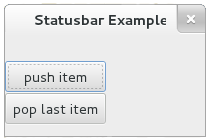
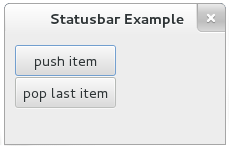
tutorials C: Statusbar sample/page/image

Changed region(s): [[0.0, 0.0, 1.0, 1.0], [0.1435, 0.087, 0.8038, 0.2029], [0.89, 0.087, 0.9474, 0.1739]]

diff --git a/platform-demos/C/samples/statusbar.c b/platform-demos/C/samples/statusbar.c
@@ -1,8 +1,5 @@
 #include <gtk/gtk.h>
 
-/*Global variable in which holds the statusbar*/
-GtkWidget *status_bar;
-
 
 
 /*Callback function in which pushes an item onto the statusbar*/
@@ -10,6 +7,10 @@ static void
 push_item(GtkWidget *widget,
           gpointer   data)
 {
+  GtkWidget *status_bar = data;
+  guint context_id = gtk_statusbar_get_context_id (GTK_STATUSBAR (status_bar), 
+                                                   "Statusbar example");
+
   /*Count is used to keep track of the amount of items 
   the user is pushing/popping*/
   static int count = 1;
@@ -20,7 +21,7 @@ push_item(GtkWidget *widget,
   into the 'hold_output' variable*/
   g_snprintf(hold_output, 20, "Item %d", count++);
   gtk_statusbar_push(GTK_STATUSBAR (status_bar), 
-                     GPOINTER_TO_INT (data), 
+                     context_id, 
                      hold_output);
 }
 
@@ -31,25 +32,32 @@ static void
 pop_item(GtkWidget *widget,
          gpointer   data )
 {
-  gtk_statusbar_pop(GTK_STATUSBAR (status_bar), GPOINTER_TO_INT (data));
+  GtkWidget *status_bar = data;
+  guint context_id = gtk_statusbar_get_context_id (GTK_STATUSBAR (status_bar), 
+                                                   "Statusbar example");
+
+  gtk_statusbar_pop(GTK_STATUSBAR (status_bar), context_id);
 }
+
+
 
 static void
 activate (GtkApplication *app,
           gpointer        user_data)
 {
-
     GtkWidget *window;
     GtkWidget *grid;
     GtkWidget *push_button;
     GtkWidget *pop_button;
+    GtkWidget *status_bar;
 
     guint context_id;
 
-    /*Create a window with a title and a default size**/
+    /*Create a window with a title, border width, and a default size**/
     window = gtk_application_window_new (app);
-    gtk_window_set_default_size(GTK_WINDOW (window), 200, 100);
-    gtk_window_set_title(GTK_WINDOW (window), "Statusbar Example");
+    gtk_window_set_default_size (GTK_WINDOW (window), 220, 100);
+    gtk_window_set_title (GTK_WINDOW (window), "Statusbar Example");
+    gtk_container_set_border_width (GTK_CONTAINER(window), 10);
     
     /*Create the status bar, which is held in the global variable*/
     status_bar = gtk_statusbar_new ();      
@@ -65,15 +73,15 @@ activate (GtkApplication *app,
     
     /*Create the grid, and attach the buttons/statusbar accordingly*/
     grid = gtk_grid_new ();
-    gtk_grid_attach (GTK_GRID (grid), status_bar, 1,1,1,1);
-    gtk_grid_attach (GTK_GRID (grid), push_button, 1,2,1,1);
-    gtk_grid_attach (GTK_GRID (grid), pop_button, 1,3,1,1);
+    gtk_grid_attach (GTK_GRID (grid), push_button, 0,1,1,1);
+    gtk_grid_attach (GTK_GRID (grid), pop_button, 0,2,1,1);
+    gtk_grid_attach (GTK_GRID (grid), status_bar, 0,3,1,1);
     
     /*Connecting the clicked signals to the corresponding callback functions*/
     g_signal_connect (GTK_BUTTON (push_button), "clicked", 
-                      G_CALLBACK (push_item), &context_id);
+                      G_CALLBACK (push_item), status_bar);
     g_signal_connect (GTK_BUTTON (pop_button), "clicked", 
-                      G_CALLBACK (pop_item), &context_id);
+                      G_CALLBACK (pop_item), status_bar);
     
     /*Attach the grid holding the child widgets onto the window, and show all*/
     gtk_container_add (GTK_CONTAINER (window), grid);
